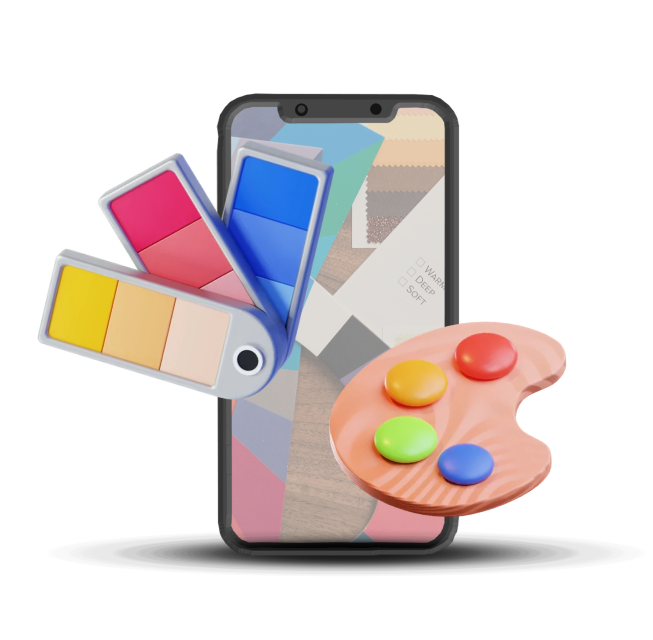
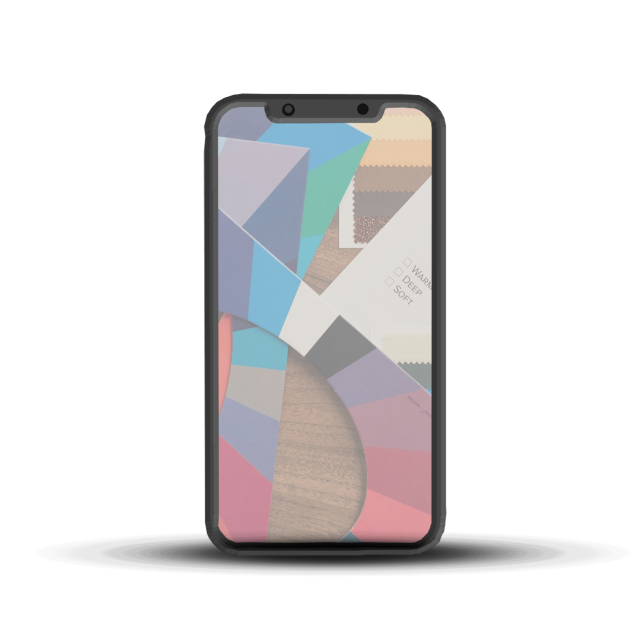
updating test

Changed region(s): [[0.0625, 0.125, 0.875, 0.875], [0.5312, 0.8125, 0.5625, 0.8438]]

diff --git a/src/components/Test.tsx b/src/components/Test.tsx
@@ -1,0 +1,72 @@
+import React, { useState } from "react";
+import test from "../assets/test.json";
+import { QuizData } from "../types";
+import cx from "classnames";
+import { useNavigate } from "react-router-dom";
+
+const Test: React.FC = () => {
+  const data: QuizData = test;
+  const [currentQuestion, setCurrentQuestion] = useState<number>(0);
+  const [answers, setAnswers] = useState<number[]>([]);
+  const navigate = useNavigate();
+  console.log(data)
+
+  function selectAnswer(index: number) {
+    console.log(index);
+    let updatedAnswers = [...answers];
+    updatedAnswers[currentQuestion] = index;
+    setAnswers(updatedAnswers);
+    console.log(updatedAnswers);
+  }
+
+  return (
+    <>
+      <div className="container mx-auto flex flex-col min-h-screen">
+        <button
+          onClick={() => {
+            setCurrentQuestion(
+              (prevCurrentQuestion: number) => prevCurrentQuestion - 1
+            );
+            
+          }}
+        >
+          down
+        </button>
+        <p className="text-center font-poppins">{data.test[currentQuestion].question}</p>
+        <div className="flex flex-wrap gap-10 mt-8 items-stretch justify-center">
+          {data.test[currentQuestion].answers.map((answer, index) => (
+            <div
+              className={cx("border-2 p-5 w-auto h-auto  flex flex-col items-center justify-center", {
+                "border-red-500": answers[currentQuestion] === index,
+                "border-slate-500": answers[currentQuestion] != index,
+              })}
+              key={index}
+              onClick={() => {
+                selectAnswer(index);
+              }}
+            >
+              <p className="font-poppins">{answer.text}</p>
+              <img src={answer.image} alt="" />
+            </div>
+          ))}
+        </div>
+        <button
+          className="font-poppins mt-8"
+          onClick={() => {
+            if (currentQuestion == (data.test.length - 1) ) {
+              navigate("/")
+            } else 
+            setCurrentQuestion(
+              (prevCurrentQuestion: number) => prevCurrentQuestion + 1
+            );
+          }}
+          disabled={answers[currentQuestion] === undefined}
+        >
+          Next Question
+        </button>
+      </div>
+    </>
+  );
+};
+
+export default Test;

diff --git a/src/components/Home.tsx b/src/components/Home.tsx
@@ -1,7 +1,6 @@
 import { useNavigate } from "react-router-dom";
 import Logo from './Logo';
 
-
 const Home = () => {
     const navigate = useNavigate();
     return (
@@ -12,18 +11,20 @@ const Home = () => {
             <div className='flex items-center flex-col sm:flex-row pt-6'>
                 <div className='flex flex-col justify-center items-center  pl-8 pr-8'>
                     <p className='font-poppins text-center' >Lorem ipsum dolor sit amet, consectetur adipiscing elit. Sed varius congue nisl et tincidunt. Vivamus sit amet sapien sit amet sapien.</p>
-                    <button onClick={() => {navigate("/test");}}  className='font-poppins bg-blue-800 text-white pl-6 pr-6 p-2 mt-6 rounded-xl'>Take the test</button>
+                    <button onClick={() => {navigate("/test");}}  className='font-poppins border-2 border-blue-800 text-blue-800 pl-6 pr-6 p-2 mt-6 rounded-xl hover:bg-blue-800 hover:text-white transition duration-150'>Take the test</button>
                 </div>
                 <div className=' bg-gray-300 mt-8 w-[300px] h-[2px] sm:mt-0 sm:h-[100px] sm:w-[2px] '></div>
                 <div className='flex flex-col items-center pl-8 pr-8 pt-8 sm:pt-0'>
                     <p className='font-poppins text-center'>Lorem ipsum dolor sit amet, consectetur adipiscing elit. Sed varius congue nisl et tincidunt. Vivamus sit amet sapien sit amet sapien.</p>
                     <button  onClick={() => {navigate("/photodetection");}}
-              className='font-poppins border-2 border-blue-800 text-blue-800 pl-6 pr-6 p-2 mt-6 rounded-xl'>Check a color</button>
+              className='font-poppins border-2 border-blue-800 text-blue-800 pl-6 pr-6 p-2 mt-6 rounded-xl hover:bg-blue-800 hover:text-white transition duration-150'>Check a color</button>
                 </div>
             </div>
         </div>
-        <div className='w-4/5 md:w-2/5'>
+        <div className='w-4/5 md:w-2/5 relative overflow-hidden mb-32 sm:mb-0'>
+            <img className=" w-3/5 absolute floating bottom-0 right-0" src="/tavolozza.png" alt="" />
             <img src="/phone.png" alt="" />
+            <img className="w-3/5 absolute floating top-6 " src="/palette.png" alt="" />
         </div>
     </div>
   )

diff --git a/src/App.tsx b/src/App.tsx
@@ -4,6 +4,7 @@ import Result from "./components/Result";
 import { useState } from "react";
 import SelectPalette from "./components/SelectPalette";
 import Home from "./components/Home";
+import Test from "./components/Test";
 
 function App() {
   const [selectedSquare, setSelectedSquare] = useState<Color | undefined>();
@@ -14,6 +15,12 @@ function App() {
           path="/"
           element={
             <Home/>
+          }
+        />
+        <Route
+          path="/test"
+          element={
+            <Test/>
           }
         />
         <Route

diff --git a/src/index.css b/src/index.css
@@ -117,3 +117,19 @@
     font-weight: 400;
     font-style: normal;
   }
+
+  
+.floating {  
+  animation-name: floating;
+  animation-duration: 6s;
+  animation-iteration-count: infinite;
+  animation-timing-function: ease-in-out;
+  margin-left: 30px;
+  margin-top: 5px;
+}
+
+@keyframes floating {
+  0% { transform: translate(0,  0px); }
+  50%  { transform: translate(0, 15px); }
+  100%   { transform: translate(0, -0px); }    
+}

diff --git a/src/types.ts b/src/types.ts
@@ -1,0 +1,15 @@
+export interface Answer {
+    text: string;
+    image: string;
+  }
+  
+  export interface Question {
+    number: number;
+    question: string;
+    answers: Answer[];
+  }
+  
+  export interface QuizData {
+    test: Question[];
+  }
+  

diff --git a/tailwind.config.js b/tailwind.config.js
@@ -3,6 +3,9 @@ export default {
   content: ["./index.html", "./src/**/*.{js,ts,jsx,tsx}"],
   theme: {
     extend: {
+      animation: {
+        'bounce-slow': 'bounce 10s linear infinite',
+      },
       colors: {
         creme: '#F4EBD2'
       },
